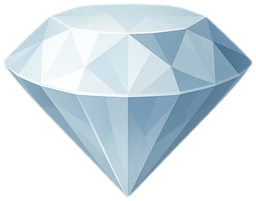
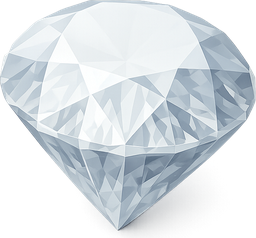
New diamond, bag and take-card pictures, and action-specific confirm wording
The white gem uses the supplied diamond. The royal take-2-from-the-bag power shows the bag
with a 2, the free-counterfeiter and reserve-any-card powers show the take-card hand, the
9-points-of-one-colour win shows the rainbow gem with a minus one, and the 9-crowns win
shows the crown with a minus one. The confirm button now reads Take tokens, Buy card,
Reserve card or Refill board instead of Complete move.

diff --git a/src/components/Cards.jsx b/src/components/Cards.jsx
@@ -2,10 +2,10 @@ import { CF_TEXT, ROYAL_TEXT } from '../engine/data.js';
 import { PAL, Gem, Crown, AbilityIcon, Mini } from './Art.jsx';
 
 // Royal abilities that have a picture; the first three need no words, the rest keep their text.
-const ICON_ONLY = ['privilege', 'extra', 'steal', 'take1', 'rtake3', 'rtake4'];
+const ICON_ONLY = ['privilege', 'extra', 'steal', 'take1', 'rtake3', 'rtake4', 'rbag2', 'rcounter', 'rreserve', 'w9c', 'w9k'];
 // A number drawn on the picture, for powers that take several tokens.
-const ICON_COUNT = { rtake3: 3, rtake4: 4 };
-const ROYAL_ICON = { privilege: 'privilege', extra: 'extra', steal: 'steal', take1: 'match', rtake3: 'match', rtake4: 'match' };
+const ICON_COUNT = { rtake3: 3, rtake4: 4, rbag2: 2, w9c: '−1', w9k: '−1' };
+const ROYAL_ICON = { privilege: 'privilege', extra: 'extra', steal: 'steal', take1: 'match', rtake3: 'match', rtake4: 'match', rbag2: 'bag', rcounter: 'takecard', rreserve: 'takecard', w9c: 'wild', w9k: 'crown' };
 
 const COST_ORDER = ['blue', 'white', 'green', 'black', 'red', 'pearl', 'glass'];
 const AB_LABEL = { extra: 'Extra turn', privilege: 'Privilege', match: 'Match', steal: 'Steal', wild: 'Wild' };

diff --git a/src/components/Art.jsx b/src/components/Art.jsx
@@ -43,10 +43,11 @@ export function Mini({ kind, size = 16 }) {
   return <Gem kind={kind} size={size} />;
 }
 
-const ABILITY_ICON = { extra: 'go-again', privilege: 'scroll', match: 'take-from-board', steal: 'steal', wild: 'any-color-gem' };
+const ABILITY_ICON = { extra: 'go-again', privilege: 'scroll', match: 'take-from-board', steal: 'steal', wild: 'any-color-gem', bag: 'bag', takecard: 'take-card' };
 
 /** The picture for a card ability: go again, privilege scroll, take from the board, steal, any colour. */
 export function AbilityIcon({ ab, size = 24 }) {
+  if (ab === 'crown') return <Crown size={size} />;
   const name = ABILITY_ICON[ab];
   if (!name) return null;
   return <img src={`/icons/${name}.png`} alt="" draggable={false} className="shrink-0 object-contain" style={{ width: size, height: size }} />;

diff --git a/src/App.jsx b/src/App.jsx
@@ -244,7 +244,7 @@ export default function App() {
                       {action ? (
                         <>
                           {action !== 'priv' && (
-                            <Button size="sm" disabled={!canComplete} onClick={complete}>{canComplete && <CompleteIcon size={16} />}Complete move</Button>
+                            <Button size="sm" disabled={!canComplete} onClick={complete}>{canComplete && <CompleteIcon size={16} />}{{ take: 'Take tokens', buy: 'Buy card', reserve: 'Reserve card', refill: 'Refill board' }[action]}</Button>
                           )}
                           <Button size="sm" variant="outline" disabled={!idle} onClick={cancel}>Cancel</Button>
                         </>
